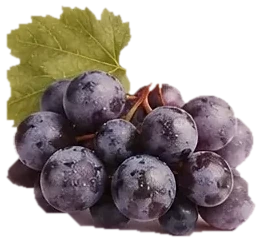
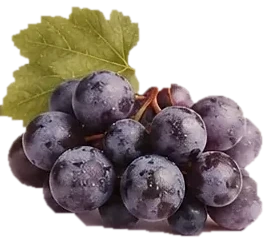
상자 뚜껑이 잘리던 배경 제거 마스크 수정
원인은 GrabCut 초기 사각형의 여백이었다. 이 사각형 바깥은 '확실한 배경'으로
못박히는데, 상자 뚜껑이 프레임 가장자리까지 뻗어 있어 거기 걸리면 통째로
잘려 나갔다. 원주 상자는 아예 좌우 끝에 닿아 있어 더 심했다.

- 여백을 하나로 정하지 않고 여섯 값을 모두 돌려, 피사체가 가장 온전히 남는
  마스크를 고른다. 잘리면 면적이 줄어드니 면적이 곧 판정 기준이 되고,
  배경까지 삼킨 것은 프레임의 3/4 을 넘겨 걸러진다.
- 명도가 비슷한 분홍 상자용으로 색 거리 마스크도 후보에 넣었다.
- 고른 마스크에 배경이 사각형으로 묻어오는 경우가 있어(논산 상자 오른쪽),
  배경색과 사실상 같은 색인 픽셀만 걷어낸다. 기준을 헐겁게 잡으면 상자까지
  깎여서, 테두리 표본이 오염된 경우를 대비해 상한을 두고 6% 넘게 깎이면
  원래 마스크를 쓴다.

밝은 바탕·어두운 바탕 양쪽에서 일곱 장 모두 실루엣을 확인했다. 320~430px 폭
네 기기에서 가로 넘침 0, 핀 섹션 잘림 0, 콘솔 에러 0.

diff --git a/scripts/cutout.py b/scripts/cutout.py
@@ -22,19 +22,27 @@ SRC = ROOT / "public/img"
 OUT = ROOT / "public/img/cutout"
 
 # (이름, 초기 사각형 여백 비율, 잘라낸 뒤 남길 여백 비율)
+# 잘라낸 뒤 남길 여백(피사체 크기 대비)
+MARGIN = 0.035
+
+# GrabCut 초기 사각형의 여백 후보. 이 사각형 바깥은 '확실한 배경'으로 못박히므로
+# 값에 따라 뚜껑이 통째로 잘리기도 한다. 대비가 약한 분홍 상자는 특히 민감해서,
+# 하나로 정하지 않고 후보를 모두 돌려 가장 많이 살아남는 마스크를 고른다.
+INSETS = (0.008, 0.012, 0.02, 0.03, 0.05, 0.06)
+
 TARGETS = [
-    ("fruit-strawberry", 0.06, 0.03),
-    ("fruit-grape", 0.06, 0.03),
-    ("fruit-apple", 0.06, 0.03),
-    ("pkg-jeju", 0.05, 0.04),
-    ("pkg-nonsan", 0.05, 0.04),
-    ("pkg-wonju", 0.02, 0.04),  # 분홍 상자가 배경과 대비가 약해 넓게 잡는다
-    ("package-all", 0.04, 0.04),
+    "fruit-strawberry",
+    "fruit-grape",
+    "fruit-apple",
+    "pkg-jeju",
+    "pkg-nonsan",
+    "pkg-wonju",
+    "package-all",
 ]
 
 
-def cutout(bgr, inset):
-    """GrabCut 으로 전경 확률 마스크를 만든다."""
+def _mask(bgr, inset):
+    """주어진 초기 사각형으로 GrabCut 을 돌려 전경 마스크를 만든다."""
     h, w = bgr.shape[:2]
     mx, my = int(w * inset), int(h * inset)
     rect = (mx, my, w - 2 * mx, h - 2 * my)
@@ -72,25 +80,104 @@ def cutout(bgr, inset):
         keep = [i + 1 for i, sz in enumerate(sizes) if sz >= sizes.max() * 0.12]
         fg = ndimage.binary_fill_holes(np.isin(lab, keep)).astype(np.uint8)
 
-    # 경계를 1px 안쪽으로 당기고 부드럽게 — 배경색 테두리가 남지 않게
-    fg = cv2.erode(fg, np.ones((3, 3), np.uint8), iterations=1)
-    return np.clip(cv2.GaussianBlur(fg.astype(np.float32), (0, 0), 0.8), 0, 1)
+    # 경계를 1px 안쪽으로 당긴다 — 배경색 테두리가 남지 않게
+    return cv2.erode(fg, np.ones((3, 3), np.uint8), iterations=1)
+
+
+def _clean(fg):
+    """티끌 제거 → 구멍 메우기 → 의미 있는 조각만 남기기."""
+    fg = cv2.morphologyEx(fg, cv2.MORPH_OPEN, np.ones((3, 3), np.uint8), iterations=2)
+    fg = ndimage.binary_fill_holes(fg).astype(np.uint8)
+    lab, n = ndimage.label(fg)
+    if not n:
+        return None
+    sizes = ndimage.sum(fg, lab, range(1, n + 1))
+    keep = [i + 1 for i, sz in enumerate(sizes) if sz >= sizes.max() * 0.12]
+    return ndimage.binary_fill_holes(np.isin(lab, keep)).astype(np.uint8)
+
+
+def _color_mask(bgr):
+    """테두리에서 잰 배경색과의 거리로 자른다.
+
+    분홍 상자를 크림 배경 위에 놓은 컷처럼 명도가 비슷하면 GrabCut 이 흔들린다.
+    색 자체는 다르므로 거리 기준이 더 안정적일 때가 있어 후보로 함께 넣는다.
+    """
+    h, w = bgr.shape[:2]
+    ring = max(3, int(min(h, w) * 0.02))
+    rgb = bgr.astype(np.float32)
+    border = np.concatenate([
+        rgb[:ring].reshape(-1, 3), rgb[-ring:].reshape(-1, 3),
+        rgb[:, :ring].reshape(-1, 3), rgb[:, -ring:].reshape(-1, 3),
+    ])
+    bg = np.median(border, axis=0)
+    spread = np.percentile(np.abs(border - bg).sum(axis=1), 97)
+    dist = np.abs(rgb - bg).sum(axis=2)
+    fg = _clean((dist > max(spread * 1.6, 40)).astype(np.uint8))
+    return None if fg is None else cv2.erode(fg, np.ones((3, 3), np.uint8), iterations=1)
+
+
+def _drop_background_leak(bgr, fg):
+    """마스크에 딸려 들어온 배경 조각을 걷어낸다.
+
+    가장 넓은 마스크를 고르다 보면 상자 옆 배경이 사각형으로 묻어오기도 한다.
+    배경색과 사실상 같은 색인 픽셀만 아주 좁은 기준으로 빼고, 구멍은 다시
+    메운다(상자 안쪽은 색이 달라 영향받지 않는다).
+    """
+    h, w = bgr.shape[:2]
+    ring = max(3, int(min(h, w) * 0.02))
+    rgb = bgr.astype(np.float32)
+    border = np.concatenate([
+        rgb[:ring].reshape(-1, 3), rgb[-ring:].reshape(-1, 3),
+        rgb[:, :ring].reshape(-1, 3), rgb[:, -ring:].reshape(-1, 3),
+    ])
+    bg = np.median(border, axis=0)
+    # 피사체가 프레임 끝에 닿는 컷은 테두리 표본에 피사체가 섞여 편차가 커진다.
+    # 그대로 쓰면 기준이 헐거워져 상자까지 깎이므로 상한을 둔다.
+    tol = min(max(np.percentile(np.abs(border - bg).sum(axis=1), 50), 18.0), 70.0)
+    same_as_bg = np.abs(rgb - bg).sum(axis=2) < tol
+
+    trimmed = _clean((fg & ~same_as_bg).astype(np.uint8))
+    if trimmed is None or trimmed.sum() < fg.sum() * 0.94:
+        return fg          # 조금이라도 크게 깎이면 원래 마스크를 쓴다
+    return trimmed
+
+
+def cutout(bgr):
+    """여러 초기 사각형을 시도해 피사체가 가장 온전히 남는 마스크를 고른다.
+
+    잘려 나가면 면적이 줄어드니 면적은 클수록 좋다. 다만 배경까지 삼킨 마스크도
+    면적이 크므로 프레임의 3/4 을 넘는 것은 버린다. 피사체가 프레임 끝에 닿는
+    컷(원주 상자)도 있어서 '테두리에 닿으면 실격' 같은 기준은 쓸 수 없다.
+    """
+    h, w = bgr.shape[:2]
+    cap = h * w * 0.75
+    best, best_area = None, 0
+    for fg in [_mask(bgr, i) for i in INSETS] + [_color_mask(bgr)]:
+        if fg is None:
+            continue
+        area = int(fg.sum())
+        if best_area < area <= cap:
+            best, best_area = fg, area
+    if best is None:
+        return None
+    best = _drop_background_leak(bgr, best)
+    return np.clip(cv2.GaussianBlur(best.astype(np.float32), (0, 0), 0.8), 0, 1)
 
 
 def main():
     OUT.mkdir(parents=True, exist_ok=True)
-    for name, inset, margin in TARGETS:
+    for name in TARGETS:
         src = SRC / f"{name}.webp"
         if not src.exists():
             sys.exit(f"원본 없음: {src}")
         im = Image.open(src).convert("RGB")
-        alpha = cutout(cv2.cvtColor(np.asarray(im), cv2.COLOR_RGB2BGR), inset)
+        alpha = cutout(cv2.cvtColor(np.asarray(im), cv2.COLOR_RGB2BGR))
         if alpha is None:
             sys.exit(f"피사체를 찾지 못했습니다: {name}")
 
         ys, xs = np.where(alpha > 0.4)
-        pad_y = int((ys.max() - ys.min()) * margin)
-        pad_x = int((xs.max() - xs.min()) * margin)
+        pad_y = int((ys.max() - ys.min()) * MARGIN)
+        pad_x = int((xs.max() - xs.min()) * MARGIN)
         box = (max(0, xs.min() - pad_x), max(0, ys.min() - pad_y),
                min(im.width, xs.max() + 1 + pad_x), min(im.height, ys.max() + 1 + pad_y))
 
